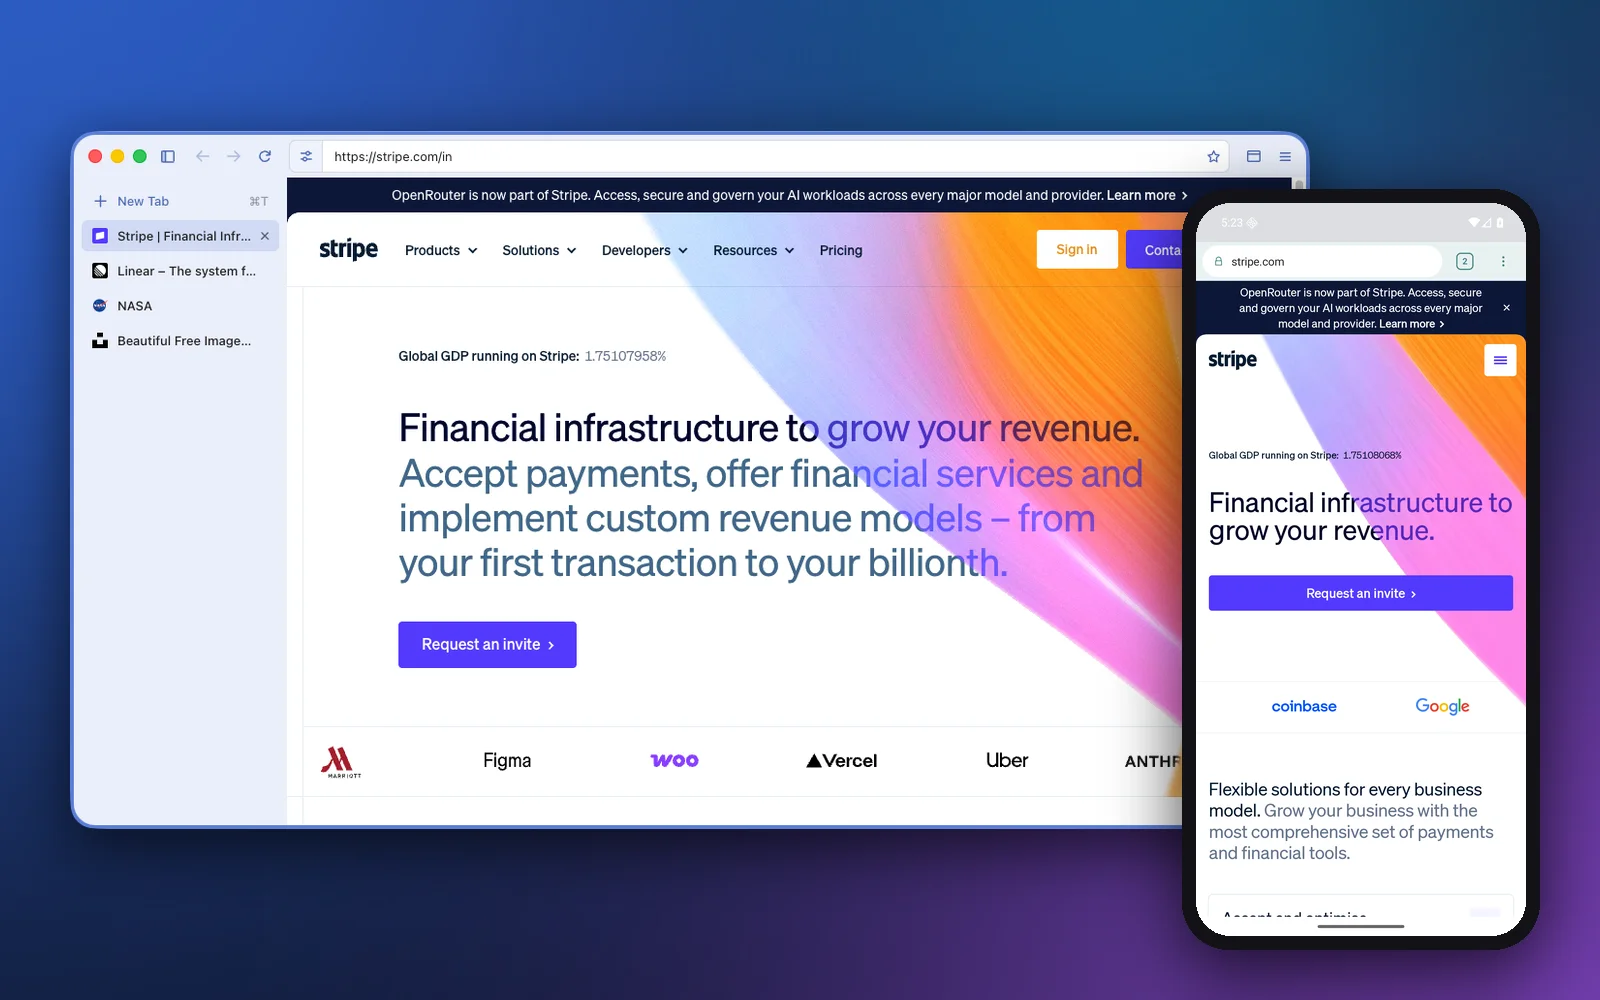
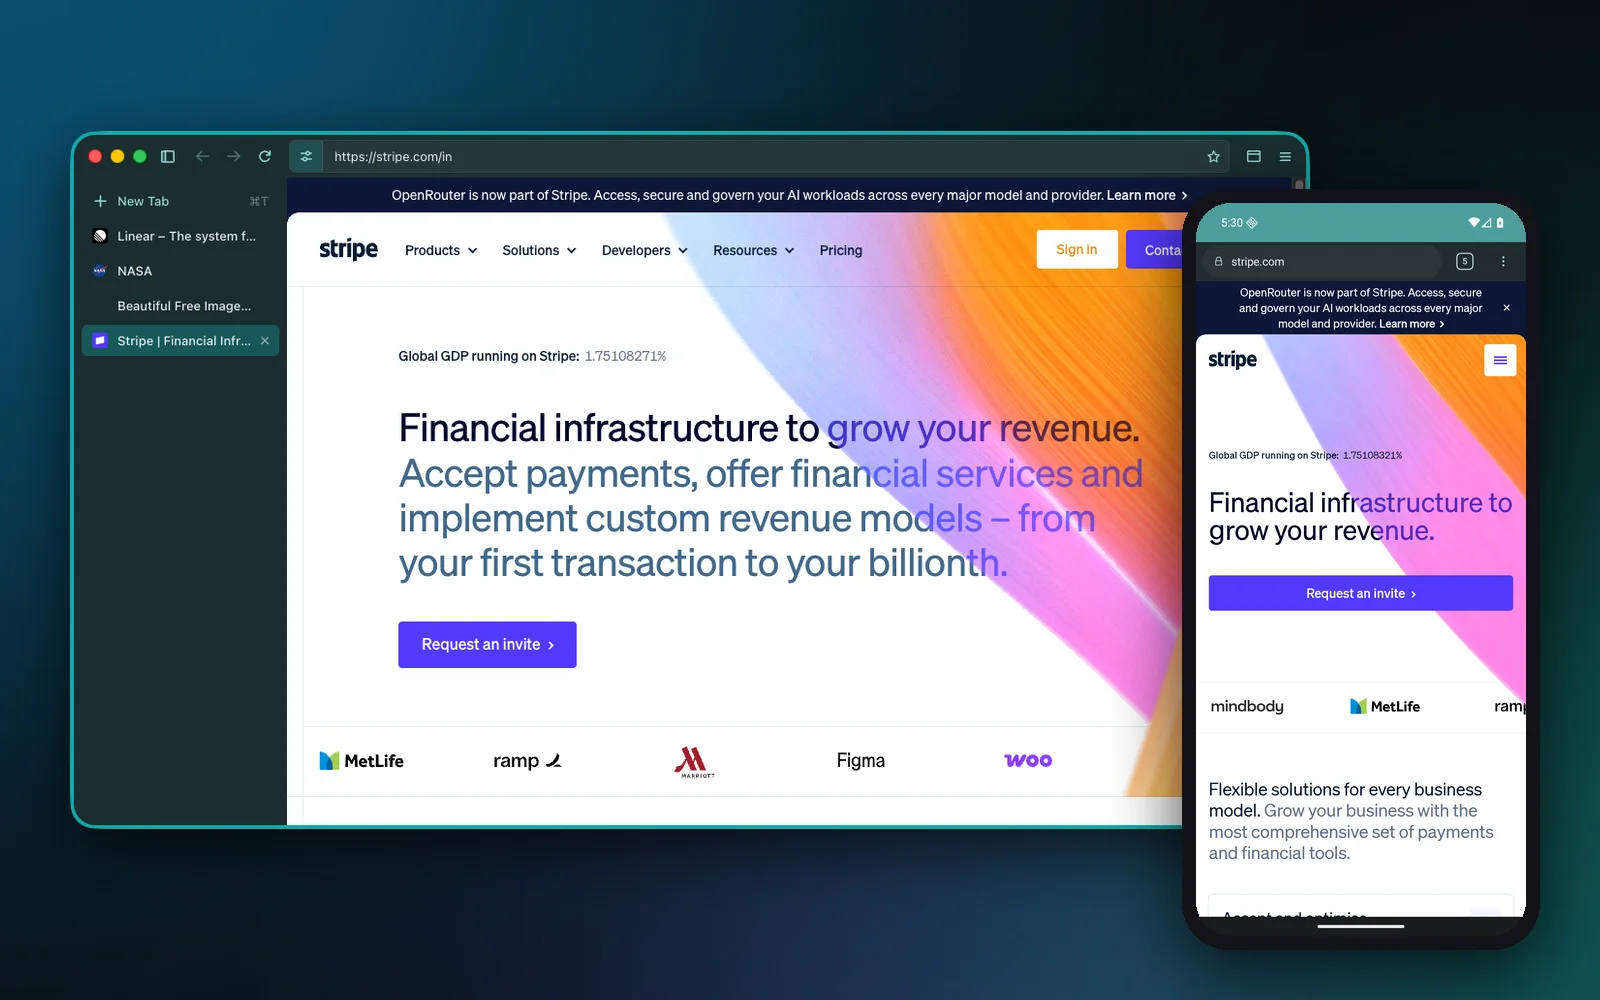
Show Project B in dark to match the site, and both themes on its page
The home card and the page's dark-theme hero are now the dark theme
with a teal frame; in the site's light theme the page shows the light
hero. The gallery adds the same page in light and dark, Linear in
dark, and the phone in dark.

diff --git a/pages/project-b.vue b/pages/project-b.vue
@@ -39,8 +39,16 @@
       </div>
       <div class="hero-shot">
         <img
+          class="for-dark"
           src="/images/project-b.webp"
-          alt="Project B on a Mac with tabs down the side and a blue frame, showing stripe.com, and the Mobile shell on an Android phone showing the same site"
+          alt="Project B in the dark theme with a teal frame on a Mac, showing stripe.com, and the Mobile shell on an Android phone showing the same site"
+          width="1600"
+          height="1000"
+        />
+        <img
+          class="for-light"
+          src="/images/project-b/hero-light.webp"
+          alt="Project B in the light theme with a blue frame on a Mac, showing stripe.com, and the Mobile shell on an Android phone showing the same site"
           width="1600"
           height="1000"
         />
@@ -150,21 +158,25 @@
             <img src="/images/project-b/site.webp" alt="The site panel over stripe.com: the ad blocker on, one blocked, and links to other sites allowed" loading="lazy" width="1600" height="1000" />
             <figcaption><strong>Every site, its own rules.</strong> The ad blocker and link blocking, one tap from the address field.</figcaption>
           </figure>
+          <figure class="shot shot-wide">
+            <img src="/images/project-b/themes.webp" alt="The same page in Project B twice: the light theme with a blue frame, and the dark theme with a teal frame" loading="lazy" width="1600" height="1000" />
+            <figcaption><strong>Light or dark, any frame colour.</strong> Pick a theme and a colour in settings and the whole window follows, live.</figcaption>
+          </figure>
           <figure class="shot">
-            <img src="/images/project-b/dark.webp" alt="Project B in the dark theme with a navy frame, showing linear.app" loading="lazy" width="1600" height="1000" />
-            <figcaption><strong>Dark, light or the system's.</strong> Pick a frame colour and the whole window follows.</figcaption>
+            <img src="/images/project-b/dark2.webp" alt="Project B in the dark theme with a teal frame, showing linear.app" loading="lazy" width="1600" height="1000" />
+            <figcaption><strong>Made for long sessions.</strong> The dark theme with tabs down the side.</figcaption>
           </figure>
           <figure class="shot">
             <img src="/images/project-b/tabs.webp" alt="Project B with tabs on top and a teal frame, showing nasa.gov" loading="lazy" width="1600" height="1000" />
             <figcaption><strong>Tabs down the side or on top.</strong> One switch in settings, applied live.</figcaption>
           </figure>
           <figure class="shot">
-            <img src="/images/project-b/phone.webp" alt="The Mobile shell on Android with stripe.com and nasa.gov" loading="lazy" width="1600" height="1000" />
+            <img src="/images/project-b/phone.webp" alt="The Mobile shell on Android in the light theme, with stripe.com and nasa.gov" loading="lazy" width="1600" height="1000" />
             <figcaption><strong>The same browser on a phone.</strong> The Go core and the shell come along to Android.</figcaption>
           </figure>
           <figure class="shot">
-            <img src="/images/project-b/settings.webp" alt="Project B's settings page in the dark theme" loading="lazy" width="1600" height="1000" />
-            <figcaption><strong>Settings that fit on one screen.</strong> Workspaces, site settings, Sparks, keyboard and flags.</figcaption>
+            <img src="/images/project-b/phone-dark.webp" alt="The Mobile shell on Android in the dark theme, with stripe.com and linear.app" loading="lazy" width="1600" height="1000" />
+            <figcaption><strong>And dark on the phone too.</strong> It follows the phone's own setting.</figcaption>
           </figure>
         </div>
       </div>
@@ -427,6 +439,18 @@ useHead({
   max-width: 1180px;
   margin: 48px auto 0;
   padding: 0 32px;
+}
+
+.for-light {
+  display: none !important;
+}
+
+:root[data-theme='light'] .for-light {
+  display: block !important;
+}
+
+:root[data-theme='light'] .for-dark {
+  display: none !important;
 }
 
 .hero-shot img {

diff --git a/pages/index.vue b/pages/index.vue
@@ -144,7 +144,7 @@
           <div class="flagship-media">
             <img
               src="/images/project-b.webp"
-              alt="Project B on a Mac with tabs down the side and a blue frame, showing stripe.com, and the Mobile shell on an Android phone"
+              alt="Project B in the dark theme with a teal frame on a Mac, showing stripe.com, and the Mobile shell on an Android phone"
               loading="lazy"
             />
           </div>
